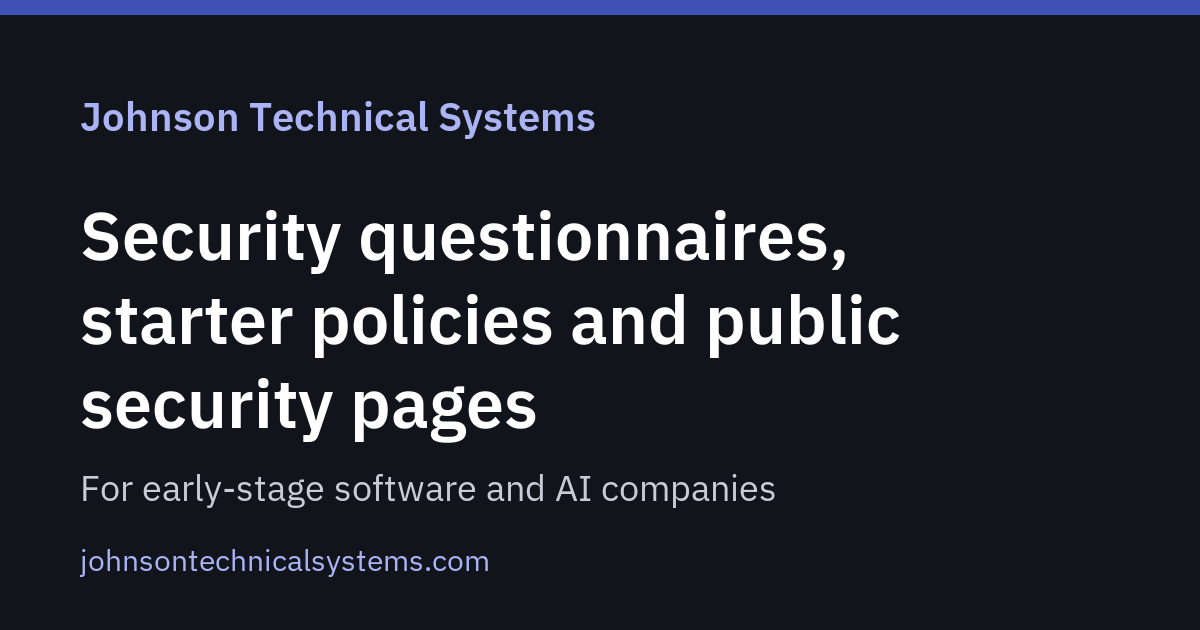
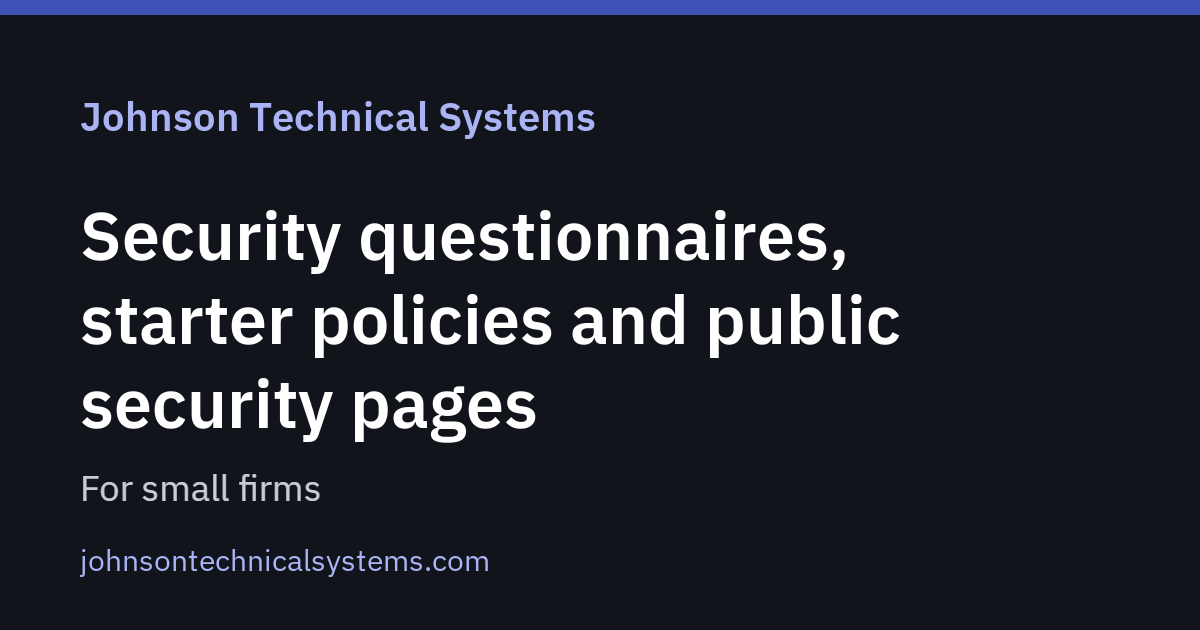
Change the sharing image audience line to "For small firms"
The LinkedIn Featured previews still named early-stage software and AI companies, which is narrower than the current small-firm positioning.

Changed region(s): [[0.0617, 0.754, 0.6475, 0.8143]]

diff --git a/overrides/main.html b/overrides/main.html
@@ -25,7 +25,7 @@
   <meta property="og:image" content="{{ share_image }}">
   <meta property="og:image:width" content="1200">
   <meta property="og:image:height" content="630">
-  <meta property="og:image:alt" content="{{ config.site_name }}: security questionnaires, starter policies and public security pages">
+  <meta property="og:image:alt" content="{{ config.site_name }}: security questionnaires, starter policies and public security pages for small firms">
   <meta property="og:locale" content="en_US">
   <meta name="twitter:card" content="summary_large_image">
   <meta name="twitter:title" content="{{ share_title }}">

diff --git a/CHANGELOG.md b/CHANGELOG.md
@@ -2,6 +2,11 @@
 
 All documents remain Drafts until their status field says otherwise.
 
+## 2026-11-26: Broaden the sharing image and description to small firms
+
+- The social share image now reads "For small firms" in place of "For early-stage software and AI companies". The headline, colors, font and 1200x630 size are unchanged.
+- The site description and homepage title, which feed the Open Graph and Twitter card text, now describe written security documentation for small firms.
+
 ## 2026-11-23: Rebuild the site around paid services
 
 - New homepage that leads with the offer: security questionnaires, starter policy packs and public security pages for early-stage software and AI companies, with prices, a three-step process and contact details.

diff --git a/docs/index.md b/docs/index.md
@@ -1,5 +1,5 @@
 ---
-title: Security questionnaires and policies for early-stage software and AI companies
+title: Written security documentation for small firms
 hide:
   - navigation
   - toc
